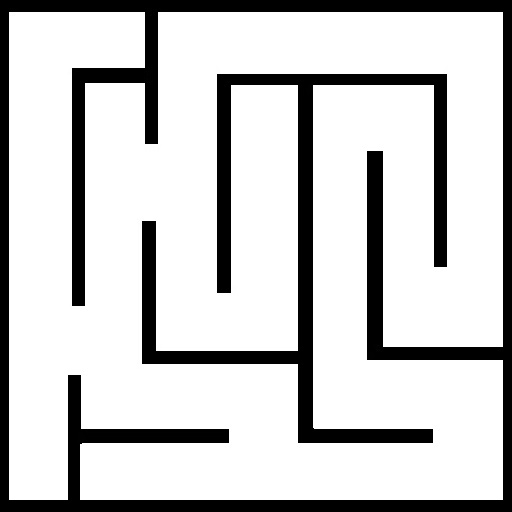
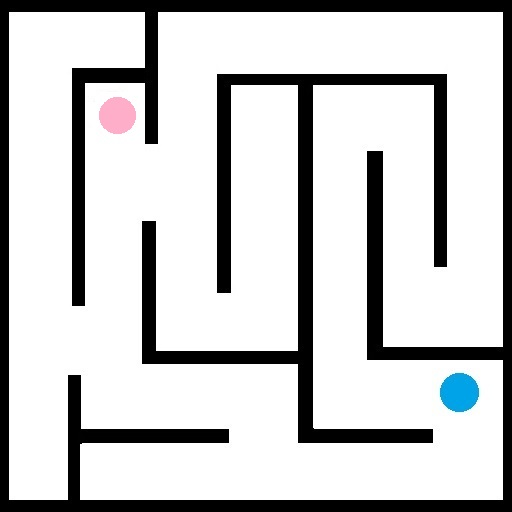
Start and End Detection
Detects largest blue spot as start position and largest red spot as end position

Changed region(s): [[0.8438, 0.7188, 0.9375, 0.8125], [0.1875, 0.1875, 0.2812, 0.2812]]

diff --git a/Assets/Scripts/PointFinder.cs b/Assets/Scripts/PointFinder.cs
@@ -4,7 +4,7 @@ using UnityEngine;
 
 public class PointFinder : MonoBehaviour
 {
-    public GameObject PlayerObj;
+    public GameObject StartPoint;
 
     // Start is called before the first frame update
     void Start()
@@ -16,75 +16,141 @@ public class PointFinder : MonoBehaviour
         // an excessive number (>100) of pixels in a direction
         int pixelSkip = (int)Mathf.Ceil((float)hMap.width / 100f);
         int sampleSizeX = hMap.width / pixelSkip;
-        int sampleSizeY = hMap.height / pixelSkip;
+        int sampleSizeZ = hMap.height / pixelSkip;
 
         // Scale pixel coordinates to screen
-        float camSizeY = Camera.main.orthographicSize; // orthographicSize is half the screen height, 100 pixels per unit
-        float camSizeX = camSizeY * Screen.width / Screen.height;
-        float meshScaleX = ((float)camSizeX / (float)sampleSizeX) / 50; // (100 pixels per unit)/2 = 50
-        float meshScaleY = ((float)camSizeY / (float)sampleSizeY) / 50;
+        float camSizeZ = 2 * Camera.main.orthographicSize; // orthographicSize is half the screen height
+        float camSizeX = camSizeZ * Screen.width / Screen.height;
 
         // Track blue areas as they are being scanned
         int blueCount = 0;
-        int blueStartX = -1;
-        int blueEndX = -1;
-        int blueY = -1;
-        
+        int blueStartZ = -1;
+        int blueEndZ = -1;
+        int blueX = -1;
+
         // Record the widest blue area found so far
-        int maxCount = 0;
-        int maxStartX = -1;
-        int maxEndX = -1;
-        int maxY = -1;
+        int maxBlueCount = 0;
+        int maxBlueStartZ = -1;
+        int maxBlueEndZ = -1;
+        int maxBlueX = -1;
+
+        // Track red areas as they are being scanned
+        int redCount = 0;
+        int redStartZ = -1;
+        int redEndZ = -1;
+        int redX = -1;
+
+        // Record the widest red area found so far
+        int maxRedCount = 0;
+        int maxRedStartZ = -1;
+        int maxRedEndZ = -1;
+        int maxRedX = -1;
+
+        // Coordinates of start and end points
+        float startX;
+        float startZ;
+        float endX;
+        float endZ;
+
+        // Store color of a pixel
+        Color pixel;
 
         // Loop through all the pixels in the image
         // Sample pixels on intervals
         // Assign heights to vertices based on greyscale values of pixels
         for (int i = 0; i < sampleSizeX; i++) // X dimension
         {   
-            for (int j = 0; j < sampleSizeY; j++) // Y dimension
-            {   // Check if pixel is sufficiently blue
-                if (hMap.GetPixel(i * pixelSkip, j * pixelSkip).b > 0.3f)
+            for (int j = 0; j < sampleSizeZ; j++) // Z dimension
+            {   
+                pixel = hMap.GetPixel(i * pixelSkip, j * pixelSkip);
+
+                // Check if pixel is sufficiently blue
+                if (pixel.r < 0.8 * pixel.b && pixel.g < pixel.b)
                 {   // Is this the start of a new area?
                     if (blueCount == 0)
                     {
-                        blueY = j;
-                        blueStartX = i;
+                        blueX = i;// j;
+                        blueStartZ = j;// i;
                     }
                     // Increment count of blue area width
-                    blueCount = blueCount + pixelSkip;
-                    blueEndX = i;
+                    blueCount = blueCount + 1;
+                    blueEndZ = j;// i;
 
                     // Is this the widest blue area found so far?
-                    if (blueCount > maxCount)
+                    if (blueCount > maxBlueCount)
                     {   // Record this as the widest blue area
-                        maxCount = blueCount;
-                        maxStartX = blueStartX;
-                        maxEndX = blueEndX;
-                        maxY = blueY;
+                        maxBlueCount = blueCount;
+                        maxBlueStartZ = blueStartZ;
+                        maxBlueEndZ = blueEndZ;
+                        maxBlueX = blueX;
                     }
                 }
                 else
                 {   // Reset count
                     blueCount = 0;
-                    blueStartX = -1;
-                    blueEndX = -1;
-                    blueY = -1;
+                }
+
+                // Check if pixel is sufficiently red
+                if (pixel.b < 0.8 * pixel.r && pixel.g < 0.8 * pixel.r)
+                {   // Is this the start of a new area?
+                    if (redCount == 0)
+                    {
+                        redX = i;// j;
+                        redStartZ = j;// i;
+                    }
+                    // Increment count of blue area width
+                    redCount = redCount + 1;
+                    redEndZ = j;// i;
+
+                    // Is this the widest blue area found so far?
+                    if (redCount > maxRedCount)
+                    {   // Record this as the widest blue area
+                        maxRedCount = redCount;
+                        maxRedStartZ = redStartZ;
+                        maxRedEndZ = redEndZ;
+                        maxRedX = redX;
+                    }
+                }
+                else
+                {   // Reset count
+                    redCount = 0;
                 }
             }
         }
 
         // Was a blue area found?
-        if (maxCount > 0)
-        {
-            float centerY = pixelSkip * meshScaleY * (float)maxY;
-            float centerX = pixelSkip * meshScaleX * ((float)maxStartX + (float)maxEndX) / 2;
+        if (maxBlueCount > 0)
+        {   // Convert pixel coordinates to screen coordinates
+            startX = (float)maxBlueX * camSizeX / sampleSizeX;
+            startZ = ((float)maxBlueStartZ + (float)maxBlueEndZ) * camSizeZ / (sampleSizeZ * 2);
 
-            centerY = centerY + camSizeY;
-            centerX = centerX - camSizeX;
-            // Place start point
-            Vector3 startPosition = new Vector3(centerX, 0f, centerY);
-            GameObject player = Instantiate(PlayerObj, startPosition, Quaternion.identity) as GameObject;
+            // Adjust coordinates to center of screen
+            // Assign to global static varible
+            startX = startX - (camSizeX / 2);
+            startZ = startZ - (camSizeZ / 2);
+
+            Globals.startPosition = new Vector3(startX, 1f, startZ);
+
+            Globals.pickStep = 1; // Don't ask user to pick start point
+
+            // Was a red area found?
+            if (maxRedCount > 0)
+            {   // Convert pixel coordinates to screen coordinates
+                endX = (float)maxRedX * camSizeX / sampleSizeX;
+                endZ = ((float)maxRedStartZ + (float)maxRedEndZ) * camSizeZ / (sampleSizeZ * 2);
+
+                // Adjust coordinates to center of screen
+                // Assign to global static varible
+                endX = endX - (camSizeX / 2);
+                endZ = endZ - (camSizeZ / 2);
+                Globals.endPosition = new Vector3(endX, 1f, endZ);
+
+                Globals.pickStep = 2; // Don't ask user to pick start point
+            }
         }
     }
 }
 
+// Place start point Icon
+// GameObject startPoint = Instantiate(StartPoint, Globals.startPosition, Quaternion.Euler(90, 0, 0)) as GameObject;
+// startPoint.transform.localScale = new Vector3(0.25f, 0.25f, 0.25f);

diff --git a/Assets/Scripts/StartEndPosit.cs b/Assets/Scripts/StartEndPosit.cs
@@ -9,22 +9,34 @@ public class StartEndPosit : MonoBehaviour
 	public GameObject StartObj;
 	public GameObject PlayerObj;
 	public GameObject EndObj;
-	private static Vector3 startPosition;
-	private static Vector3 endPosition;
-	
+	//private static Vector3 startPosition;
+	//private static Vector3 endPosition;
+
 	// Start is called before the first frame update
-    void Start()
-    {
-		// Creates "pick start point"  prompt on screen
-		GameObject StartText = Instantiate(CanvasObjStart, this.transform, false) as GameObject;
-		StartText.transform.SetParent(GameObject.FindGameObjectWithTag("Canvas").transform, false);
+	void Start()
+	{	// Check if start point is not detected
+		if (Globals.pickStep == 0)
+		{
+			// Creates "pick start point"  prompt on screen
+			GameObject StartText = Instantiate(CanvasObjStart, this.transform, false) as GameObject;
+			StartText.transform.SetParent(GameObject.FindGameObjectWithTag("Canvas").transform, false);
+		} // Check if end point is not detected
+		else if (Globals.pickStep == 1)
+		{
+			GameObject EndText = Instantiate(CanvasObjStop, this.transform, false) as GameObject;
+			EndText.transform.SetParent(GameObject.FindGameObjectWithTag("Canvas").transform, false);
+		} // Both start and end were automatically detected
+		else if (Globals.pickStep == 2)
+		{
+			startGame();
+		}
     }
 
     // Update is called once per frame
     void Update()
     {
 		// On initial click:
-		if (Globals.isShowing == 0 && Input.GetMouseButtonDown(0))
+		if (Globals.pickStep == 0 && Input.GetMouseButtonDown(0))
 		{
 			
 			// Delete player start position prompt
@@ -35,48 +47,47 @@ public class StartEndPosit : MonoBehaviour
 			//StopText.transform.SetParent(GameObject.FindGameObjectWithTag("Canvas").transform, false);
 			
 			// Store start position selected by user
-			startPosition = Camera.main.ScreenToWorldPoint(Input.mousePosition);
+			Globals.startPosition = Camera.main.ScreenToWorldPoint(Input.mousePosition);
 			// Set Y value to 0 otherwise it uses Y value of camera
-			startPosition = new Vector3(startPosition.x, 0, startPosition.z);
-
-			// Place start position icon (Green texture)
-			
-			
+			Globals.startPosition = new Vector3(Globals.startPosition.x, 0, Globals.startPosition.z);
 			
 			// Signal variable indicates user selected start point
-			Globals.isShowing = 1;
+			Globals.pickStep = 1;
 		}	
 		
 		// On second click
-		else if (Globals.isShowing == 1 && Input.GetMouseButtonDown(0))
+		else if (Globals.pickStep == 1 && Input.GetMouseButtonDown(0))
 		{
 			// Disables future selection options
-			Globals.isShowing = 2;
+			Globals.pickStep = 2;
 			
 			// Store end point selected by user
-			endPosition = Camera.main.ScreenToWorldPoint(Input.mousePosition);
+			Globals.endPosition = Camera.main.ScreenToWorldPoint(Input.mousePosition);
 			// Set Y value to 0 otherwise it uses Y value of camera
-			endPosition = new Vector3(endPosition.x, 0, endPosition.z);
+			Globals.endPosition = new Vector3(Globals.endPosition.x, 0, Globals.endPosition.z);
 
 
 			// Delete player end position prompt
 			Destroy(GameObject.FindGameObjectWithTag("StopObj"));
-			
-			// After user selects start game
-		
-			// Create player and end objects and place on board
-			GameObject endPoint = Instantiate(EndObj, endPosition, Quaternion.identity) as GameObject;
 
-			GameObject player = Instantiate(PlayerObj, startPosition, Quaternion.identity) as GameObject;
-			
-			// Apply selected options size
-			player.transform.localScale = new Vector3(Globals.ballSize, Globals.ballSize, Globals.ballSize);
-
-			// Apply selected options theme
-			Texture2D ballTexture = Resources.Load(Globals.ballTexName) as Texture2D;
-			player.GetComponent<Renderer>().material.SetTexture("_MainTex", ballTexture);
+			startGame();
 		}
 		
     }
+
+	void startGame()
+	{
+		// Create player and end objects and place on board
+		GameObject endPoint = Instantiate(EndObj, Globals.endPosition, Quaternion.identity) as GameObject;
+		GameObject player = Instantiate(PlayerObj, Globals.startPosition, Quaternion.identity) as GameObject;
+
+		// Apply selected options size
+		player.transform.localScale = new Vector3(Globals.ballSize, Globals.ballSize, Globals.ballSize);
+		endPoint.transform.localScale = new Vector3(Globals.ballSize, Globals.ballSize, Globals.ballSize);
+
+		// Apply selected options theme
+		Texture2D ballTexture = Resources.Load(Globals.ballTexName) as Texture2D;
+		player.GetComponent<Renderer>().material.SetTexture("_MainTex", ballTexture);
+	}
 	
 }

diff --git a/Assets/Scripts/Globals.cs b/Assets/Scripts/Globals.cs
@@ -25,26 +25,28 @@ public static class Globals
     public static bool inSelectMaze = false;
 	
 	// Increment through menus in game
-	public static int isShowing = 0;
+	public static int pickStep = 0;
 
     // Grayscale threshold value to distinguish wall from floor
     // White to light-gray = floor, dark-gray to black = wall
     public static float threshBW = 0.4f; // 0 = black, 1 = white
 
-    // Set start point
-	// Hide behind plane until user selects coordinates
-    public static int startX = 0;
-    public static int startZ = 0;
-    // Set end point
-	// Hide behind plane until user selects coordinates
-    public static int endX = -3;
-    public static int endZ = 0;
+    // Where ball starts
+    //public static float startX = 0;
+    //public static float startZ = 0;
+    public static Vector3 startPosition;
+
+    // End of the maze
+    //public static float endX = -1;
+    //public static float endZ = -1;
+    public static Vector3 endPosition;
 
     // Declare timeText variable
     public static string timeText;
 
-    //public static Texture2D tex = new Texture2D(1, 1);
-    public static Texture2D tex = Resources.Load("MazeTall") as Texture2D; // Test image
+    public static Texture2D tex = new Texture2D(1, 1);
+    //public static Texture2D tex = Resources.Load("Maze512") as Texture2D; // Test image
+    //public static Texture2D tex = Resources.Load("MazeTall") as Texture2D; // Test image
 
     public static int GetBallSize()
     {

diff --git a/Assets/Scripts/MeshGenerator.cs b/Assets/Scripts/MeshGenerator.cs
@@ -9,7 +9,7 @@ public class MeshGenerator : MonoBehaviour
     // Start is called before the first frame update
     void Start()
     {
-        Globals.isShowing = 0;
+        Globals.pickStep = 0;
 
         Texture2D hMap = Globals.tex;
 
